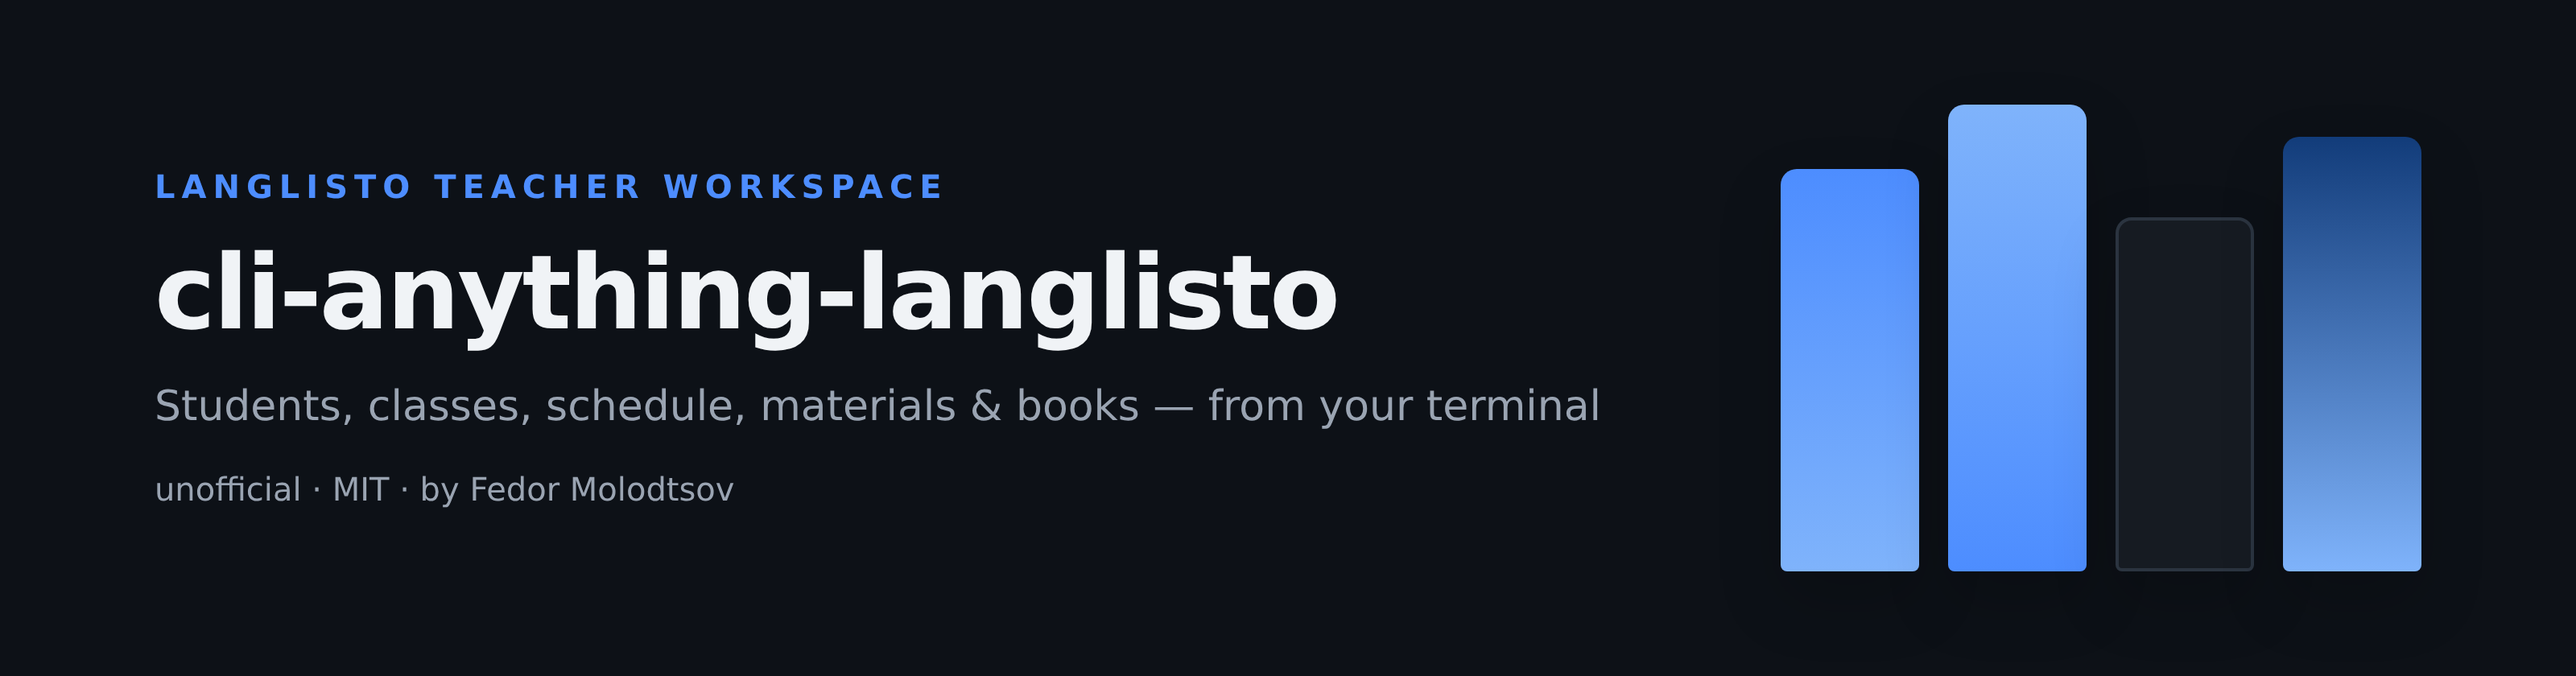
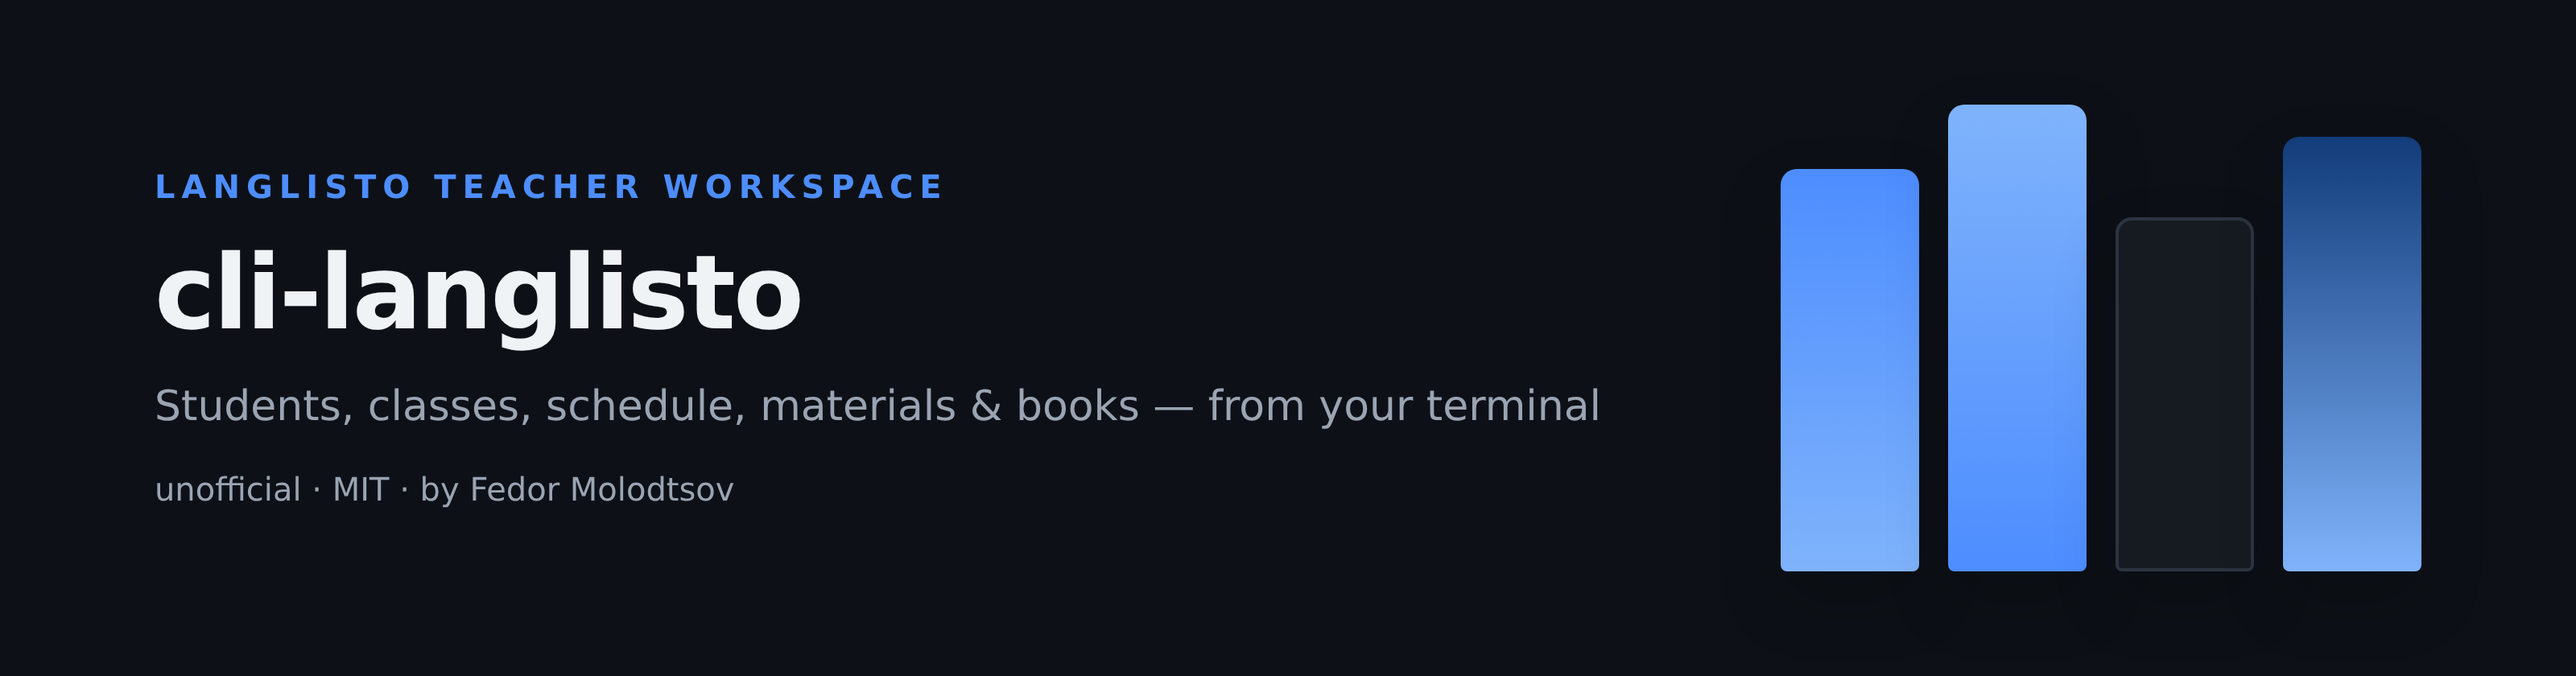
Rename to cli-langlisto v1.1.0
- package cli_anything.langlisto -> cli_langlisto; console command cli-langlisto
- legacy `cli-anything-langlisto` kept as an alias so existing scripts keep working
- README / INSTALL.md / bundled skill updated; banners regenerated; bundled
  wheel rebuilt as cli_langlisto-1.1.0

Changed region(s): [[0.125, 0.3714, 0.5312, 0.5262]]

diff --git a/setup.py b/setup.py
@@ -1,18 +1,28 @@
-from setuptools import setup, find_namespace_packages
+import pathlib
+
+from setuptools import setup, find_packages
+
+_here = pathlib.Path(__file__).parent
+_long = (_here / "README.md").read_text(encoding="utf-8")
+
 
 setup(
-    name="cli-anything-langlisto",
-    version="1.0.3",
+    name="cli-langlisto",
+    version="1.1.0",
     description="Unofficial CLI for the LangListo teacher workspace: students, classes, schedule, materials and books",
+    long_description=_long,
+    long_description_content_type="text/markdown",
     author="Fedor Molodtsov",
-    url="https://github.com/itsfedor/cli-anything-langlisto",
+    url="https://github.com/itsfedor/cli-langlisto",
     license="MIT",
-    packages=find_namespace_packages(include=["cli_anything.*"]),
+    packages=find_packages(include=["cli_langlisto*"]),
     python_requires=">=3.9",
     install_requires=["click>=8"],
     entry_points={
         "console_scripts": [
-            "cli-anything-langlisto = cli_anything.langlisto.langlisto_cli:cli",
+            "cli-langlisto = cli_langlisto.langlisto_cli:cli",
+            # legacy name (pre-1.1), kept as an alias so existing scripts keep working
+            "cli-anything-langlisto = cli_langlisto.langlisto_cli:cli",
         ],
     },
     classifiers=[

diff --git a/cli_langlisto/langlisto_cli.py b/cli_langlisto/langlisto_cli.py
@@ -1,4 +1,4 @@
-"""cli-anything-langlisto — CLI for the LangListo teacher workspace.
+"""cli-langlisto — CLI for the LangListo teacher workspace.
 
 Commands: login · logout · doctor · whoami · students · classes · schedule ·
 units · courses (books) · folders · materials (build lesson specs) · raw.
@@ -94,7 +94,7 @@ def lesson_line(l):
 
 @click.group(help="Unofficial CLI for the LangListo teacher workspace.")
 @click.option("--json", "as_json", is_flag=True, help="Print machine-readable JSON.")
-@click.version_option(__version__, prog_name="cli-anything-langlisto")
+@click.version_option(__version__, prog_name="cli-langlisto")
 @click.pass_context
 def cli(ctx, as_json):
     ctx.ensure_object(dict)
@@ -650,7 +650,7 @@ def materials_tree(ctx, course):
 @click.option("--body", default=None, help="JSON body")
 @click.pass_context
 def raw(ctx, method, path, body):
-    """Raw API call: cli-anything-langlisto raw GET /classrooms"""
+    """Raw API call: cli-langlisto raw GET /classrooms"""
     jb = json.loads(body) if body else None
     a = api(ctx)
     st, d = a.c.request(method, path, json_body=jb)

diff --git a/assets/render_banners.py b/assets/render_banners.py
@@ -1,6 +1,7 @@
 #!/usr/bin/env python3
-"""Render README banners (light/dark) into assets/."""
+"""Render README banners (light/dark) into this directory."""
 import asyncio
+import pathlib
 from playwright.async_api import async_playwright
 
 TPL = """
@@ -26,7 +27,7 @@ TPL = """
 </style></head><body>
   <div class="left">
     <div class="kicker">LangListo teacher workspace</div>
-    <h1>cli-anything-langlisto</h1>
+    <h1>cli-langlisto</h1>
     <div class="sub">Students, classes, schedule, materials &amp; books — from your terminal</div>
     <div class="by">unofficial · MIT · by Fedor Molodtsov</div>
   </div>
@@ -55,7 +56,7 @@ async def main():
             await pg.set_content(html)
             await pg.wait_for_timeout(250)
             el = await pg.query_selector("body")
-            path = f"/root/hermes/github-work/build/cli-anything-langlisto/assets/{name}.png"
+            path = str(pathlib.Path(__file__).resolve().parent / f"{name}.png")
             await el.screenshot(path=path)
             print("saved", path)
         await b.close()

diff --git a/cli_langlisto/core/client.py b/cli_langlisto/core/client.py
@@ -2,7 +2,7 @@
 
 Auth model
 ----------
-* ``cli-anything-langlisto login`` posts email+password to /auth/login ONCE,
+* ``cli-langlisto login`` posts email+password to /auth/login ONCE,
   caches only the returned bearer token in ``~/.langlisto/session.json``
   (mode 600) and never stores the password.
 * Every other command reads the token from (first found wins):
@@ -61,7 +61,7 @@ def load_token():
     raise LanglistoError(
         0,
         "no_token",
-        "No session found. Run `cli-anything-langlisto login` first "
+        "No session found. Run `cli-langlisto login` first "
         "(or set LANGLISTO_TOKEN / LANGLISTO_SESSION).",
     )
 

diff --git a/tests/test_materials.py b/tests/test_materials.py
@@ -7,11 +7,11 @@ import tempfile
 
 sys.path.insert(0, os.path.dirname(os.path.dirname(os.path.abspath(__file__))))
 
-from cli_anything.langlisto.core.materials import (  # noqa: E402
+from cli_langlisto.core.materials import (  # noqa: E402
     MaterialBuilder, GAP_MARK, build_material,
 )
-from cli_anything.langlisto.utils.names import translit, email_for  # noqa: E402
-from cli_anything.langlisto.utils.timeparse import parse_when  # noqa: E402
+from cli_langlisto.utils.names import translit, email_for  # noqa: E402
+from cli_langlisto.utils.timeparse import parse_when  # noqa: E402
 
 
 class FakeApi:

diff --git a/cli_langlisto/__main__.py b/cli_langlisto/__main__.py
@@ -1,4 +1,4 @@
-"""Entry point: python -m cli_anything.langlisto"""
+"""Entry point: python -m cli_langlisto"""
 
 from .langlisto_cli import cli
 

diff --git a/cli_langlisto/__init__.py b/cli_langlisto/__init__.py
@@ -1,0 +1,3 @@
+"""cli_langlisto — unofficial CLI for the LangListo teacher workspace."""
+
+__version__ = "1.1.0"
